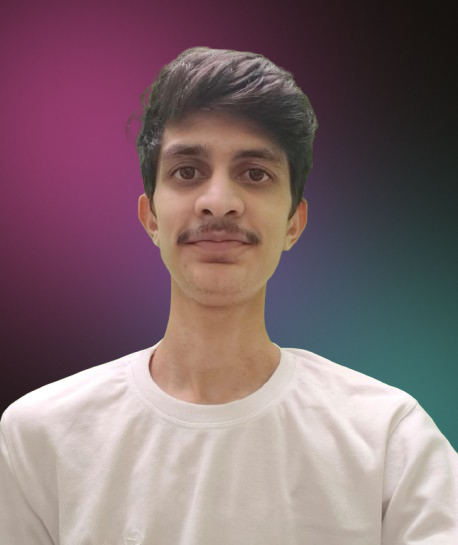
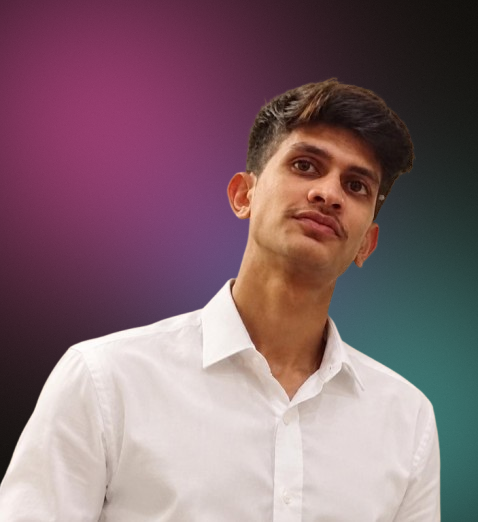
Update Kunal Raut photo and update team members list

diff --git a/src/teamData.js b/src/teamData.js
@@ -42,5 +42,5 @@ export const members = [
   { id: 'm-1', name: 'Atharv Patil', role: 'Committee Member', year: '2nd Year', avatarColor: 'linear-gradient(135deg, #f667c5, #85e3ed)', initials: 'AP' },
   { id: 'm-16', name: 'Sanika Kathore', role: 'Committee Member', year: '2nd Year', avatarColor: 'linear-gradient(135deg, #85e3ed, #f667c5)', initials: 'SK' },
   { id: 'm-17', name: 'Dhiraj Balotia', role: 'Committee Member', year: '2nd Year', avatarColor: 'linear-gradient(135deg, #5de8ef, #d4f77c)', initials: 'DB' },
-  { id: 'm-23', name: 'Akhilesh Shitole', role: 'Committee Member', year: '2nd Year', avatarColor: 'linear-gradient(135deg, #5de8ef, #fa54bd)', initials: 'AS' }
+
 ];
